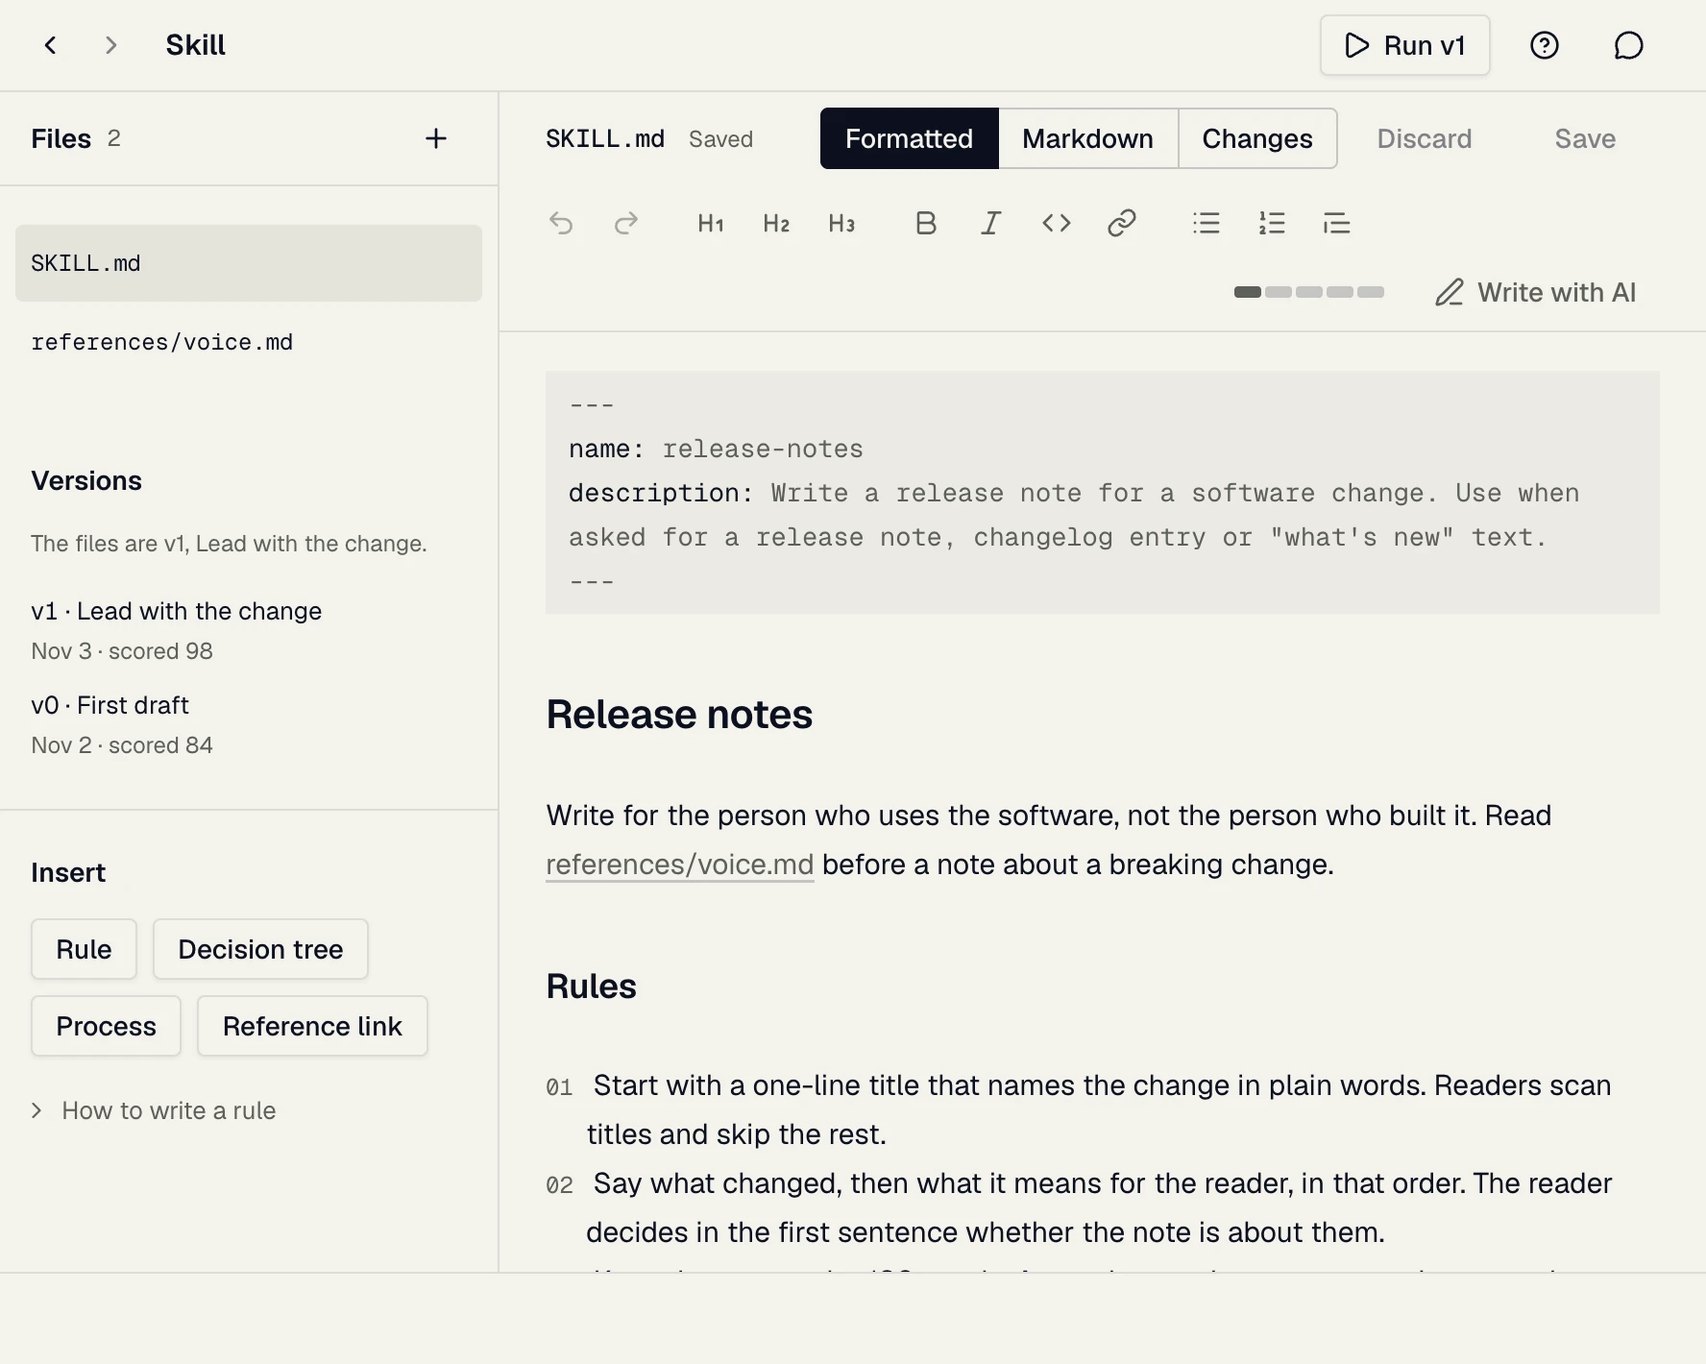
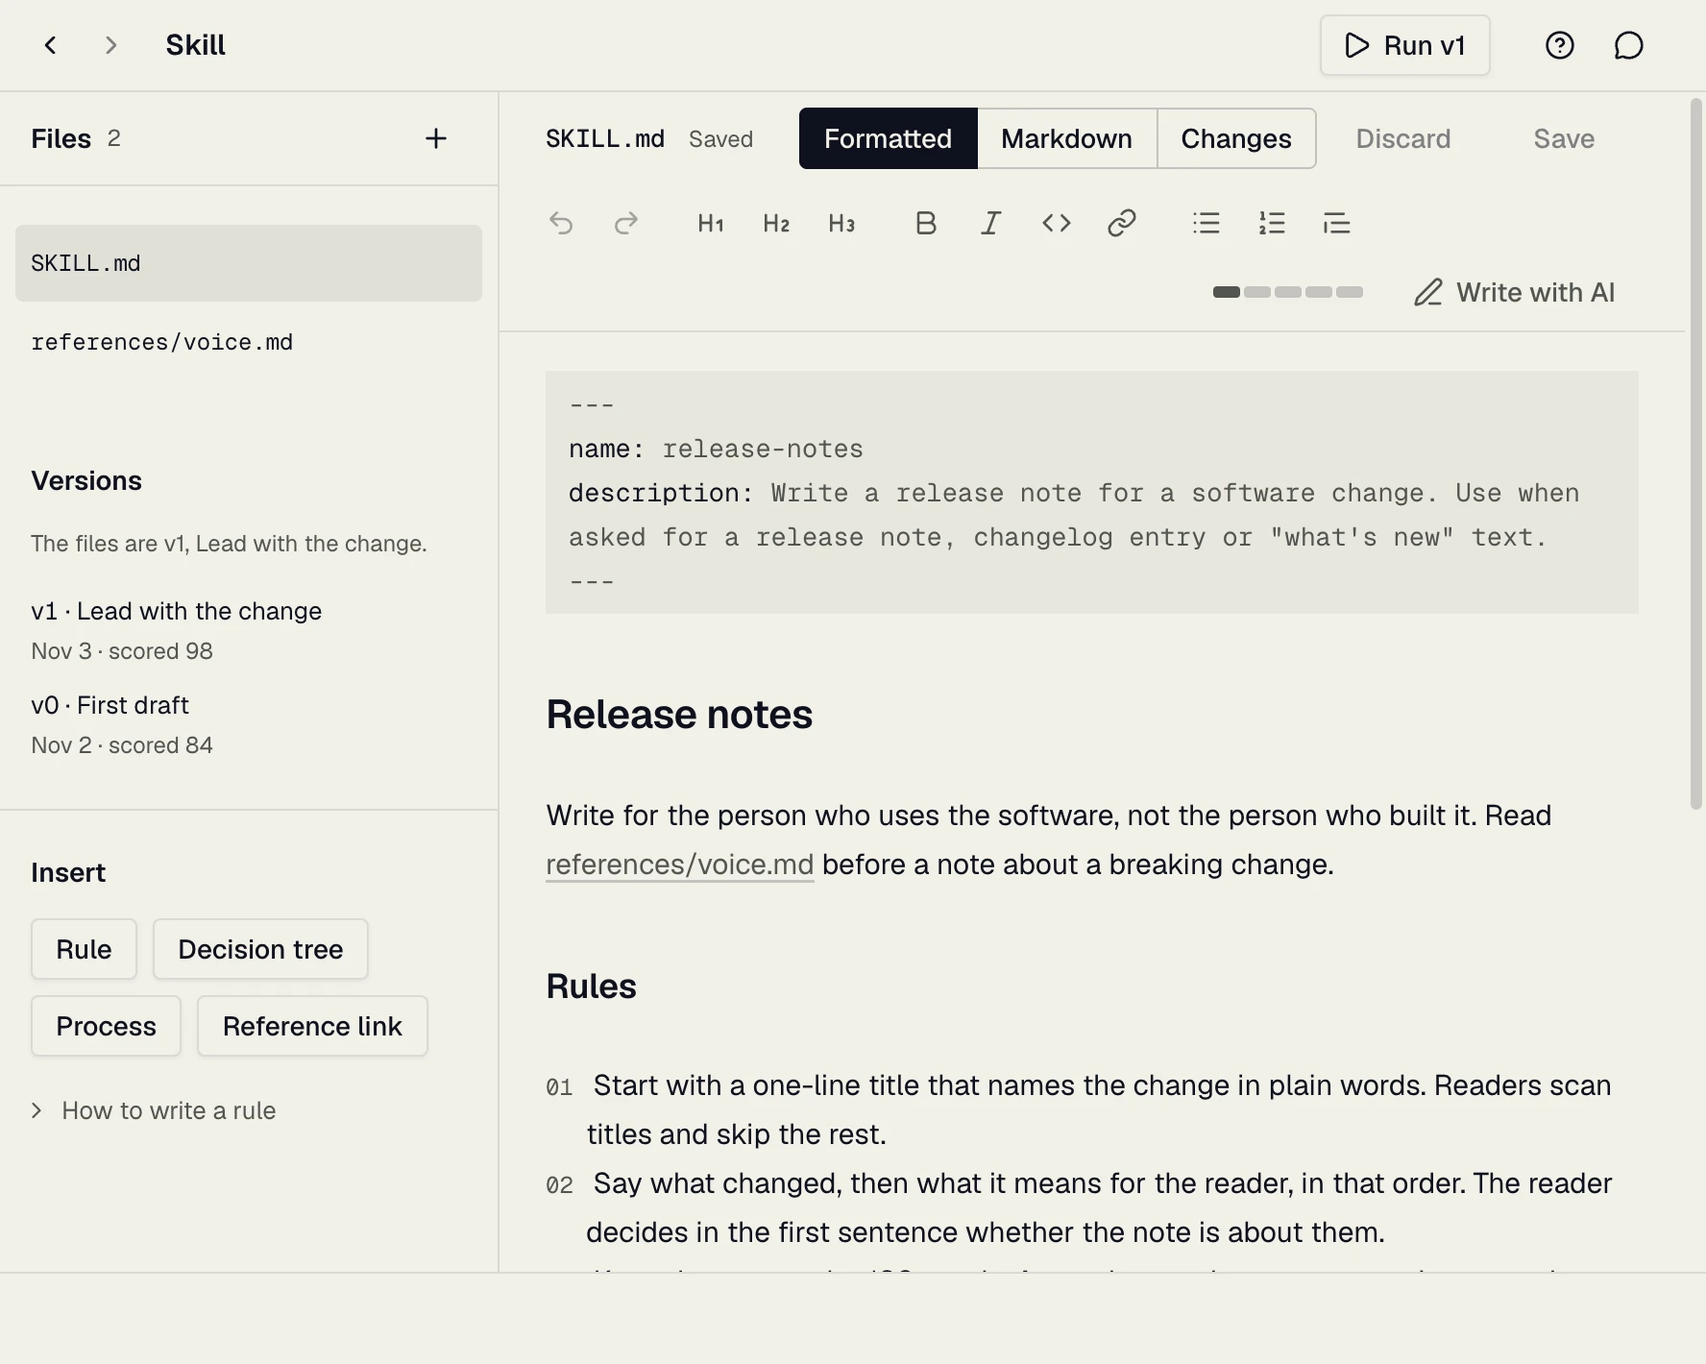
Prepare 0.7.0: changelog, release plan, fresh guide shots
Retake every guide screenshot from the built app. Fix two doc lines
left from the old welcome: Settings alone shows a CLI's sign-in command,
and the setup no longer holds the folder list. Folders drops the
variant and explain props only that setup used.

diff --git a/src/renderer/components/Folders.tsx b/src/renderer/components/Folders.tsx
@@ -23,17 +23,11 @@ export function Folders({
   workspaces,
   save,
   report,
-  variant = 'outline',
-  explain = true,
 }: {
   workspaces: string[]
   /** Store the new list; `done` says what changed, for the status line. Settles when the list is stored. */
   save: (list: string[], done: string) => Promise<unknown>
   report: Reporter
-  /** The add button's weight: filled where adding a folder is the step to take. */
-  variant?: 'default' | 'outline'
-  /** Say which folders are always read. Off where the words around the list already say it. */
-  explain?: boolean
 }) {
   /** A change to the list is on its way: every control of the list waits for it. A failed one is said on the status line. */
   const [busy, run] = useAction(report)
@@ -52,12 +46,10 @@ export function Folders({
   const { chooseFolder } = api
   return (
     <Stack gap="md">
-      {explain ? (
-        <Hint>
-          Skill Studio always reads the skills in {USER_FOLDERS}. It also finds every project with a
-          skills folder up to three levels inside the folders below.
-        </Hint>
-      ) : null}
+      <Hint>
+        Skill Studio always reads the skills in {USER_FOLDERS}. It also finds every project with a
+        skills folder up to three levels inside the folders below.
+      </Hint>
       {workspaces.length ? (
         <PlainList>
           {workspaces.map((w) => (
@@ -90,7 +82,7 @@ export function Folders({
         <Toolbar>
           <Button
             type="button"
-            variant={variant}
+            variant="outline"
             busy={busy}
             busyLabel="Saving…"
             onClick={() =>
@@ -104,7 +96,7 @@ export function Folders({
           </Button>
         </Toolbar>
       ) : (
-        <TypedFolder variant={variant} busy={busy} onAdd={add} />
+        <TypedFolder busy={busy} onAdd={add} />
       )}
     </Stack>
   )
@@ -112,11 +104,9 @@ export function Folders({
 
 /** A folder typed by its path, where no dialog can pick one. */
 function TypedFolder({
-  variant,
   busy,
   onAdd,
 }: {
-  variant: 'default' | 'outline'
   busy: boolean
   /** Resolves true once the folder is in the list. */
   onAdd: (folder: string) => Promise<boolean>
@@ -148,7 +138,7 @@ function TypedFolder({
         />
         <Button
           type="submit"
-          variant={variant}
+          variant="outline"
           disabled={!adding.trim()}
           busy={busy}
           busyLabel="Saving…"

diff --git a/docs/architecture.md b/docs/architecture.md
@@ -102,7 +102,7 @@ Isolation is by convention. The skill copy omits `evals/` and the prompt forbids
 Four providers sit behind one port (`src/infrastructure/ai/`). The model in use is a preference, so every control shows the same one. Each vendor's CLI is the main way in and its API key a supported second: `AI_PROVIDER_IDS` lists the CLI first, which is the order of every model list and of the default when nothing is chosen, and Settings folds the key behind "Use an API key" (`VendorRoutes`).
 
 - **anthropic**: the Anthropic SDK with your key. Replies stream, and a field's shape is enforced with structured outputs. The system prompt, which carries the skill and is the same from one turn to the next, is sent as a text block marked `cache_control: ephemeral`, so a later turn reads it at the cached rate. Requests to Fable 5, Opus 5 and Sonnet 5.5 models opt in to Anthropic's server-side fallback, so a request a safety classifier declines is retried on the model Anthropic recommends. A reply may run to 64,000 tokens, or to the model's own limit as the Models API lists it (`max_tokens`) when that is lower.
-- **claude-code**: `claude -p` with no tools, settings or skills, on the plan the CLI is signed in to. The shape goes in as `--json-schema`. The brief goes in as `--system-prompt` while it is under 24 KB; a longer one, which Linux's limit on one argument or Windows's on a command line would refuse, leads the prompt on stdin in a `<system>` block, and the argument is one line saying so (`placeBrief`). A command line the system still refuses as too long is reported as a conversation too long to send. The flags every headless `claude` run shares, and the sum of its token counts, are in `src/infrastructure/claude-cli.ts`; a line of a CLI's output that is not a JSON object is never read as an event (`jsonLine`). On Windows the brief always leads the prompt, since a command line takes no line break. One exception: a chat message that starts with `/name` is a command. That run loads the user's settings (`--setting-sources user`, so the user's hooks run too) and keeps slash commands on, the message goes in as the whole prompt so the CLI expands the skill as a terminal would, and the earlier turns go into the system prompt as context, which stays an argument whatever its size. On Windows that argument cannot reach an npm install of the CLI, a `.cmd` script that cmd.exe starts, so there a command is refused before anything runs with a line saying it needs the native install and linking the install guide (`commandProblem`). Tools stay off, so a skill that needs one cannot use it. Each CLI adapter asks its CLI how it is signed in: `claude auth status --json` and `codex login status`. A signed-in answer stands for half a minute (`keptAccount`), so a request does not wait on those two runs; `aiProviderInfo({ fresh: true })` asks again, and an answer of signed out is never kept. That is all the app does to a login. It runs the CLI as its maker publishes it, on whatever account the person signed it in to, with the environment an agent gets (above). It never installs a CLI, never runs `claude auth login`, `claude setup-token` or `codex login`, and never reads a token, a credentials file or the keychain entry a CLI keeps. A CLI that says it is signed out offers no models, and Settings and the welcome show the maker's own command (`signInCommand`, and `installCommand` for a CLI that is missing) with **Copy command** and **Check again**. The person runs it in their own terminal, and the row follows when the window gets the focus back. This is the line Anthropic draws: a person may sign in to the unmodified Claude Code with their own account, and a product may not offer Claude.ai login itself, handle its credentials, or use the Claude Code or Anthropic names in a feature name or a logo ([legal and compliance](https://code.claude.com/docs/en/legal-and-compliance)). So the app says in plain text that it runs Claude Code, and no control here is named "Sign in with Claude" or carries a vendor's mark. The status also says what pays (`CliAccount.billing`): a plan, or an API key the CLI found in its environment, which `claude -p` uses ahead of any plan. Settings shows which, so a key is never taken for a plan. A CLI too old to answer counts as signed in.
+- **claude-code**: `claude -p` with no tools, settings or skills, on the plan the CLI is signed in to. The shape goes in as `--json-schema`. The brief goes in as `--system-prompt` while it is under 24 KB; a longer one, which Linux's limit on one argument or Windows's on a command line would refuse, leads the prompt on stdin in a `<system>` block, and the argument is one line saying so (`placeBrief`). A command line the system still refuses as too long is reported as a conversation too long to send. The flags every headless `claude` run shares, and the sum of its token counts, are in `src/infrastructure/claude-cli.ts`; a line of a CLI's output that is not a JSON object is never read as an event (`jsonLine`). On Windows the brief always leads the prompt, since a command line takes no line break. One exception: a chat message that starts with `/name` is a command. That run loads the user's settings (`--setting-sources user`, so the user's hooks run too) and keeps slash commands on, the message goes in as the whole prompt so the CLI expands the skill as a terminal would, and the earlier turns go into the system prompt as context, which stays an argument whatever its size. On Windows that argument cannot reach an npm install of the CLI, a `.cmd` script that cmd.exe starts, so there a command is refused before anything runs with a line saying it needs the native install and linking the install guide (`commandProblem`). Tools stay off, so a skill that needs one cannot use it. Each CLI adapter asks its CLI how it is signed in: `claude auth status --json` and `codex login status`. A signed-in answer stands for half a minute (`keptAccount`), so a request does not wait on those two runs; `aiProviderInfo({ fresh: true })` asks again, and an answer of signed out is never kept. That is all the app does to a login. It runs the CLI as its maker publishes it, on whatever account the person signed it in to, with the environment an agent gets (above). It never installs a CLI, never runs `claude auth login`, `claude setup-token` or `codex login`, and never reads a token, a credentials file or the keychain entry a CLI keeps. A CLI that says it is signed out offers no models, and Settings shows the maker's own command (`signInCommand`, and `installCommand` for a CLI that is missing) with **Copy command** and **Check again**. The person runs it in their own terminal, and the row follows when the window gets the focus back. This is the line Anthropic draws: a person may sign in to the unmodified Claude Code with their own account, and a product may not offer Claude.ai login itself, handle its credentials, or use the Claude Code or Anthropic names in a feature name or a logo ([legal and compliance](https://code.claude.com/docs/en/legal-and-compliance)). So the app says in plain text that it runs Claude Code, and no control here is named "Sign in with Claude" or carries a vendor's mark. The status also says what pays (`CliAccount.billing`): a plan, or an API key the CLI found in its environment, which `claude -p` uses ahead of any plan. Settings shows which, so a key is never taken for a plan. A CLI too old to answer counts as signed in.
 - **openai**: the OpenAI SDK (Responses API) with your key, with a strict JSON schema for the shape.
 - **codex**: `codex exec --json` in a read-only sandbox, on the plan the CLI is signed in to. It reports a reply whole, not word by word.
 

diff --git a/docs/release-plan.md b/docs/release-plan.md
@@ -4,9 +4,9 @@ The plan for the next release: what is in it, what is still to do, and the check
 
 | | |
 | --- | --- |
-| Version | 0.6.1 |
-| Status | Released 2026-11-11, [v0.6.1](https://github.com/milesroxas/skill-studio/releases/tag/v0.6.1) |
-| Previous release | [v0.6.0](https://github.com/milesroxas/skill-studio/releases/tag/v0.6.0), 2026-11-10 |
+| Version | 0.7.0 |
+| Status | Tagged 2026-11-11 |
+| Previous release | [v0.6.1](https://github.com/milesroxas/skill-studio/releases/tag/v0.6.1), 2026-11-11 |
 | Target date | 2026-11-11 |
 | Owner | Miles Roxas |
 
@@ -21,11 +21,17 @@ The version follows [Semantic Versioning](https://semver.org/spec/v2.0.0.html): 
 
 ## Shipped to main
 
-Everything merged since v0.6.0.
+Everything merged since v0.6.1.
 
-- [x] Results without picks: no "Which is better?"; the next step after a run is Read the results; the walkthrough ends on reading the two notes; Scoring becomes Graded as, which saves `packs` alone; `skill.pick` removed and `skill.config` replaced by `skill.gradedAs` (03af4fc).
+- [x] Dev copies keep their own keychain item (4696a2e).
+- [x] Guide shots run on Chromium's mock keychain; a packaged app quits when started with `--use-mock-keychain` (fd0d36f).
+- [x] Delete one run from Results, All cases, with Undo; its version is saved first when the run was its only copy (8001cf3).
+- [x] Onboarding: the sample skill first, the tour optional, setup asks only for the Jev key, a four-step walkthrough that is the only guide on screen (8080da6).
+- [x] An underlined word in SKILL.md opens a note saying what the writing checks found (691e721).
+- [x] Cases carry input files and folders, with Show folder; the case and the Assistant say a run never sees the project (27c3d90).
+- [x] Guide screenshots retaken; stale lines on the welcome fixed in architecture.md and brand.md; `Folders` loses the two props only the welcome's setup used.
 
-0.6.1 removes a feature and adds none. No skill or run file changes shape: picks stay in `reviews.json` unread. It is a patch at Miles's call (2026-11-11).
+0.7.0 adds features (Delete run, Input files), so it is a minor release. No skill or run file changes shape: a case's `files/` folder may now hold folders, which older copies skip.
 
 ## Planned
 
@@ -44,17 +50,17 @@ Checks that are not covered by `pnpm check`.
 - [ ] Run the assistant live on each provider that has only been typechecked: the Anthropic API, OpenAI and Codex. Claude Code has been run live; the other three have not.
 - [ ] Send a picture to the assistant on the Anthropic API, OpenAI and Codex paths. Jev and Claude Code have been run live with a picture.
 - [ ] Go through the welcome at 110% zoom. Its window grows with the zoom, so the page keeps its 760 x 600; this has not been seen at a real 110%.
-- [x] Once the release is out, open each `releases/latest/download/` link in [releasing.md](releasing.md#updates) and check it fetches the new file: all four fetch, and `latest-mac.yml` names 0.6.1. 2026-11-11.
-- [ ] Update an installed 0.6.0 to this release and see **Restart to update**.
+- [ ] Once the release is out, open each `releases/latest/download/` link in [releasing.md](releasing.md#updates) and check it fetches the new file, and `latest-mac.yml` names 0.7.0.
+- [ ] Update an installed 0.6.1 to this release and see **Restart to update**.
 
 ## Release checklist
 
 The steps in [releasing.md](releasing.md), in order.
 
 1. [x] Every item under "Planned" is shipped or moved to "Later".
-2. [ ] Every item under "Before the release" is done. Not for 0.6.1: the unchecked items carry to the next release. The built app was driven from `out/` with a scratch home: Results, All cases and Graded as at 1280 and 720 px, in both themes.
-3. [x] `pnpm check` and `pnpm build` pass on `main`, 1,177 tests. Biome and `fallow dead-code` are clean; `fallow health` still reports the known debt in [complexity-plan.md](complexity-plan.md).
-4. [ ] `gh workflow run release` builds every platform. Not run for 0.6.1; the tag's own run builds every platform.
-5. [x] In the changelog, rename `## [Unreleased]` to `## [0.6.1] - 2026-11-11`, start a new `## [Unreleased]` above it, and commit.
-6. [x] `pnpm version patch -m "Release %s"`, then push `main` and the tag.
-7. [x] The release workflow publishes v0.6.1, with the changelog entry as its notes.
+2. [ ] Every item under "Before the release" is done. Not for 0.7.0: the unchecked items carry to the next release. The guide's screenshots were retaken from the built app on a scratch home.
+3. [x] `pnpm check` and `pnpm build` pass on `main`, 1,204 tests.
+4. [ ] `gh workflow run release` builds every platform. Not run for 0.7.0; the tag's own run builds every platform.
+5. [x] In the changelog, rename `## [Unreleased]` to `## [0.7.0] - 2026-11-11`, start a new `## [Unreleased]` above it, and commit.
+6. [x] `pnpm version minor -m "Release %s"`, then push `main` and the tag.
+7. [ ] The release workflow publishes v0.7.0, with the changelog entry as its notes.

diff --git a/docs/design/brand.md b/docs/design/brand.md
@@ -62,9 +62,9 @@ The welcome runs in its own 760 x 600 window, laid out for exactly that size and
 - Progress is the step numbers of the tour in mono, the current one yellow on ink. The setup is one step and shows no progress and no numeral: "01" of one counts nothing.
 - Doing teaches more than watching: the sample skill's walkthrough is the way in, and the tour is the second way, for a reader who wants to see first. Both end at the sample skill.
 - The tour and the setup share one step frame (`StepFrame` in `components/WelcomeStep.tsx`): numeral (left out for a lone step), title and sentence on the left, the step beside them, Back and the way forward at the foot, with nothing between them.
-- The setup asks only for what the walkthrough's first run needs: Jev's key. With the key set, the way in skips it. Where skills are found waits for the Library, a model to write with for Write with AI, and Settings holds both. Its controls are the same components Settings uses (`components/Connections.tsx`), never copies. They sit in a `StepPanel`, not a sheet: a region is never a card.
+- The setup asks only for what the walkthrough's first run needs: Jev's key. With the key set, the way in skips it. Where skills are found waits for the Library, and a model to write with waits for Settings. Its controls are the same components Settings uses (`components/Connections.tsx`), never copies. They sit in a `StepPanel`, not a sheet: a region is never a card.
 - The setup's way forward is one button. While the key is missing, the key's own control is `default` and the way forward is `outline`, reading "Configure later". Once it is set, the way forward is `default` and reads "Start the walkthrough".
-- A frame says each thing once. The sentence under the title says what the step is for, the status says how it stands, and the button says what happens next. No status detail, hint or footnote repeats one of them, and no line explains the screen that comes after: that screen explains itself when it opens. So the setup's `Folders` takes `explain={false}`: the step's sentence already says what is read.
+- A frame says each thing once. The sentence under the title says what the step is for, the status says how it stands, and the button says what happens next. No status detail, hint or footnote repeats one of them, and no line explains the screen that comes after: that screen explains itself when it opens.
 - A key the app walks someone through (`account` on its entry in `domain/secrets.ts`, today only Jev's) shows a sign-up link and, under it, a `Disclosure` reading "Show me". A quiet line, never a boxed button: it must not outweigh the key's field. It opens the steps, each a mono number, a verb in medium and a few muted words.
 - Every small label is true: the version, the step number, the screen's name. Never a decorative code, a fake serial, a ™ or text in a language the reader is not using. A label a reader cannot use is noise, and a reader who finds one fake label doubts the rest.
 - The way out stays in the title strip's right corner on every frame, the opening included. It reads "Skip" on a first visit and "Close" after.

diff --git a/CHANGELOG.md b/CHANGELOG.md
@@ -6,9 +6,7 @@ The format follows [Keep a Changelog](https://keepachangelog.com/en/1.1.0/), and
 
 ## [Unreleased]
 
-### Changed
-
-- In SKILL.md, resting the pointer on a word the writing checks underlined opens a note under it that says what the check found, the same lines the popout lists. Before, the reason was a system tooltip that took a second or more to show, when it showed at all. The word is tinted while its note is open.
+## [0.7.0] - 2026-11-11
 
 ### Added
 
@@ -27,6 +25,7 @@ The format follows [Keep a Changelog](https://keepachangelog.com/en/1.1.0/), and
 - On a narrow window the top bar keeps the screen's name: the "No Jev key" badge gives way first, then "Next:" before the step's name. The Assistant button no longer shrinks.
 - The top bar's right end reads as three groups: the "No Jev key" warning, then the next step and Run, then Help and the Assistant. The warning is now a quiet amber dot and label at the height of the buttons beside it, not a smaller filled badge.
 - On a narrow window the Skill screen opens on the document: its files, versions and inserts follow it. The file's name keeps its own row above Save, and the formatting tools scroll with the text.
+- In SKILL.md, resting the pointer on a word the writing checks underlined opens a note under it that says what the check found, the same lines the popout lists. Before, the reason was a system tooltip that took a second or more to show, when it showed at all. The word is tinted while its note is open.
 
 ### Security
 
